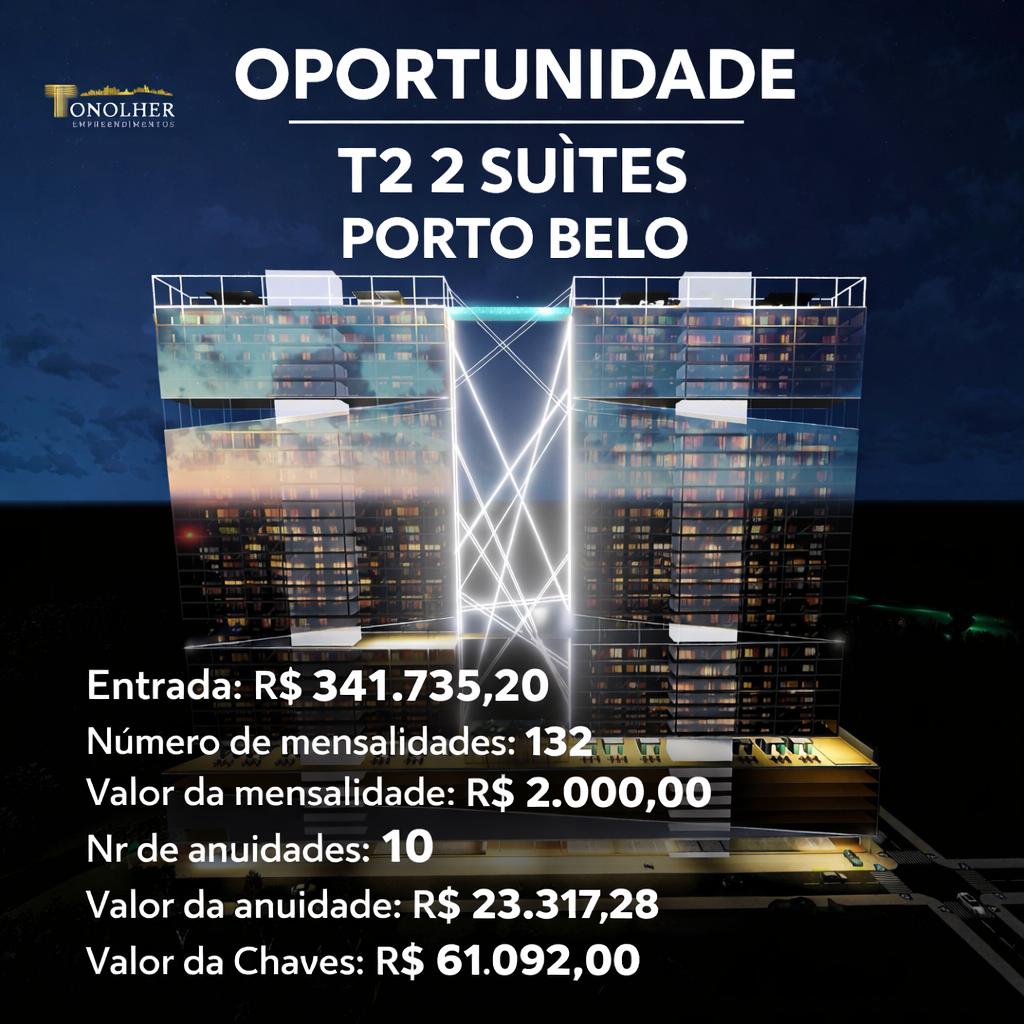
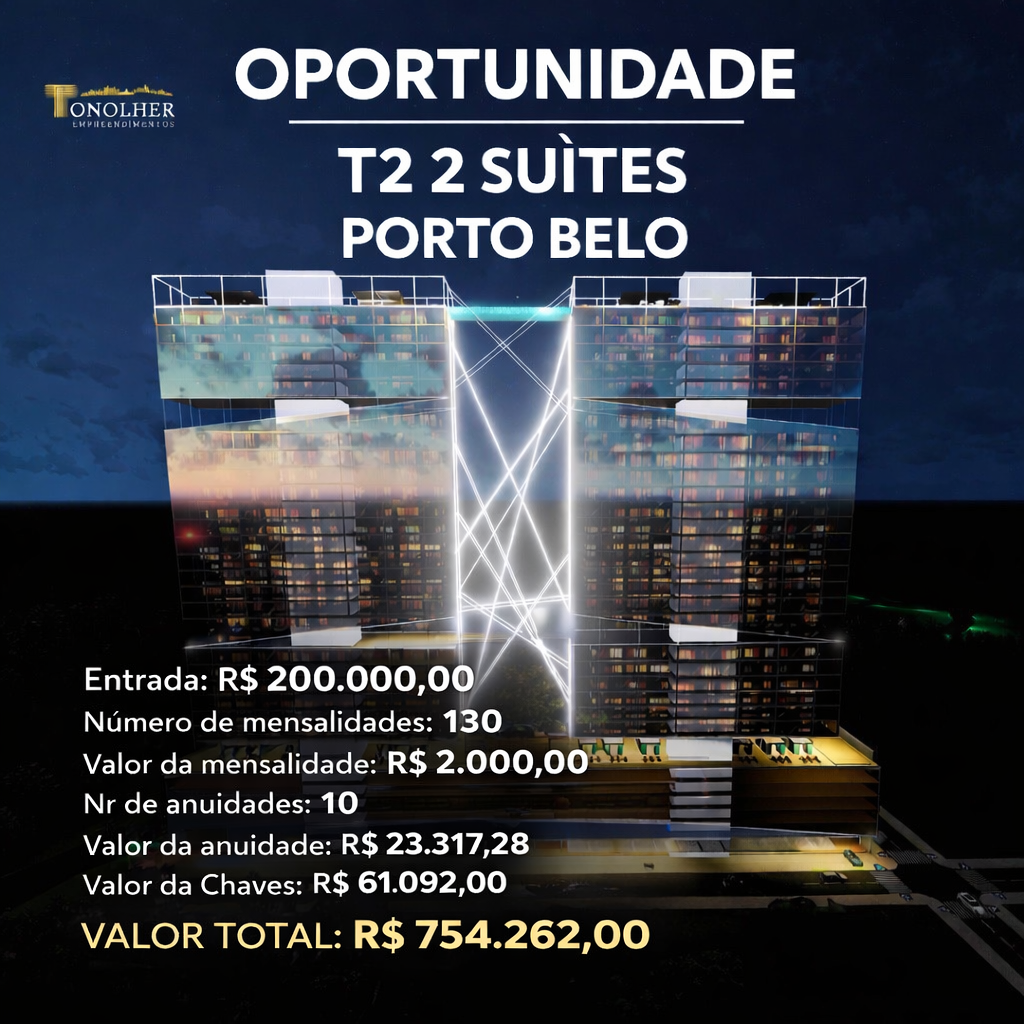
fix: actualizar precos e imagem oportunidade Sky Marine Porto Belo

Changed region(s): [[0.0625, 0.5938, 0.8125, 0.9688]]

diff --git a/index.html b/index.html
@@ -82,11 +82,11 @@
           <div class="oport-financeiro">
             <div class="fin-item highlight">
               <span class="fin-label">Entrada</span>
-              <span class="fin-value">R$ 341.735,20</span>
+              <span class="fin-value">R$ 200.000,00</span>
             </div>
             <div class="fin-item">
               <span class="fin-label">Mensalidades</span>
-              <span class="fin-value">132 x R$ 2.000,00</span>
+              <span class="fin-value">130 x R$ 2.000,00</span>
             </div>
             <div class="fin-item">
               <span class="fin-label">Anuidades</span>
@@ -95,6 +95,10 @@
             <div class="fin-item highlight-gold">
               <span class="fin-label">Valor das Chaves</span>
               <span class="fin-value">R$ 61.092,00</span>
+            </div>
+            <div class="fin-item highlight-total">
+              <span class="fin-label">VALOR TOTAL</span>
+              <span class="fin-value">R$ 754.262,00</span>
             </div>
           </div>
           <div class="oport-vantagens">

diff --git a/style.css b/style.css
@@ -160,6 +160,9 @@ img { max-width: 100%; height: auto; display: block; }
 .fin-label { font-size: 0.9rem; color: var(--text-light); }
 .fin-value { font-size: 1rem; font-weight: 800; color: var(--dark2); }
 .fin-item.highlight-gold .fin-value { color: var(--gold); font-size: 1.1rem; }
+.fin-item.highlight-total { background: rgba(201,162,39,0.18); border-radius: 8px; border: 1px solid var(--gold); margin-top: 0.75rem; padding: 0.6rem 0.8rem; }
+.fin-item.highlight-total .fin-label { color: var(--gold); font-weight: 700; font-size: 0.85rem; text-transform: uppercase; letter-spacing: 0.05em; }
+.fin-item.highlight-total .fin-value { color: var(--gold); font-size: 1.3rem; }
 .oport-vantagens { margin-bottom: 2rem; }
 .oport-vantagens h4 { font-size: 0.9rem; font-weight: 700; color: var(--dark2); margin-bottom: 1rem; text-transform: uppercase; letter-spacing: 0.5px; }
 .oport-vantagens ul { list-style: none; display: flex; flex-direction: column; gap: 0.5rem; }
